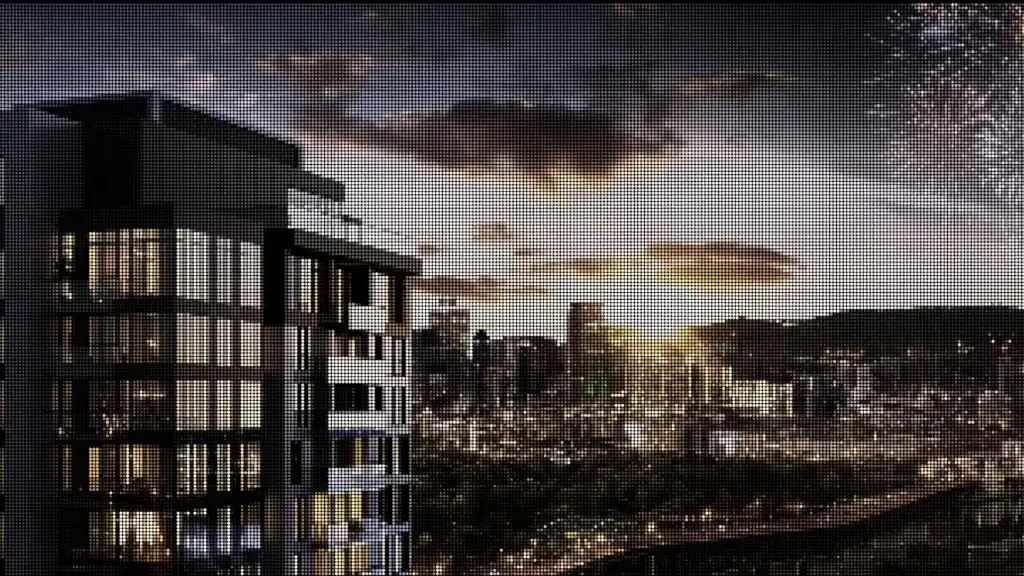
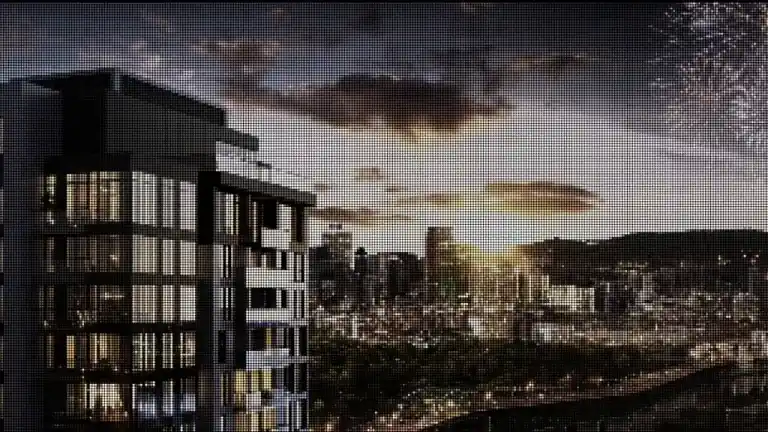
Reduce LCP image payloads

Changed region(s): [[0.3125, 0.8426, 0.3438, 0.8727]]

diff --git a/src/components/OurStandardsSection.tsx b/src/components/OurStandardsSection.tsx
@@ -6,7 +6,7 @@ import { useLoadWhenInView } from "../hooks/useDeferredMedia";
 
 const BG_VIDEO_DESKTOP = "/videos/our-standards-bg-desktop.mp4";
 const BG_VIDEO_MOBILE = "/videos/our-standards-bg-mobile.mp4";
-const BG_IMAGE = "/images/our-standards-bg-clean.webp";
+const BG_IMAGE = "/images/our-standards-bg-clean.webp?v=3";
 
 const ease: [number, number, number, number] = [0.25, 0.1, 0.25, 1];
 
@@ -46,8 +46,8 @@ export function OurStandardsSection() {
             loading="lazy"
             decoding="async"
             fetchPriority="low"
-            width={1920}
-            height={1080}
+            width={768}
+            height={432}
             className="absolute inset-0 w-full h-full object-cover"
             style={{ objectPosition: "center 60%" }}
           />

diff --git a/index.html b/index.html
@@ -3,7 +3,7 @@
   <head>
     <meta charset="UTF-8" />
     <link rel="preload" as="image" href="/logo-80.webp" type="image/webp" fetchpriority="high" />
-    <link rel="preload" as="image" href="/hero-video-poster.webp" type="image/webp" fetchpriority="high" />
+    <link rel="preload" as="image" href="/hero-video-poster.webp?v=3" type="image/webp" fetchpriority="high" />
     <script>
       (function(){var t=localStorage.getItem('gestion-velora-theme');document.documentElement.classList.add(t==='dark'?'dark':'light');})();
     </script>

diff --git a/src/components/HeroSection.tsx b/src/components/HeroSection.tsx
@@ -4,7 +4,7 @@ import { useGoToContact } from "../hooks/useGoToContact";
 
 const HERO_VIDEO_DESKTOP = "/videos/hero-bg-desktop-fast.mp4";
 const HERO_VIDEO_MOBILE = "/videos/hero-bg-mobile-fast.mp4";
-const HERO_IMAGE = "/hero-video-poster.webp";
+const HERO_IMAGE = "/hero-video-poster.webp?v=3";
 
 export function HeroSection() {
   const { t } = useTranslation();
